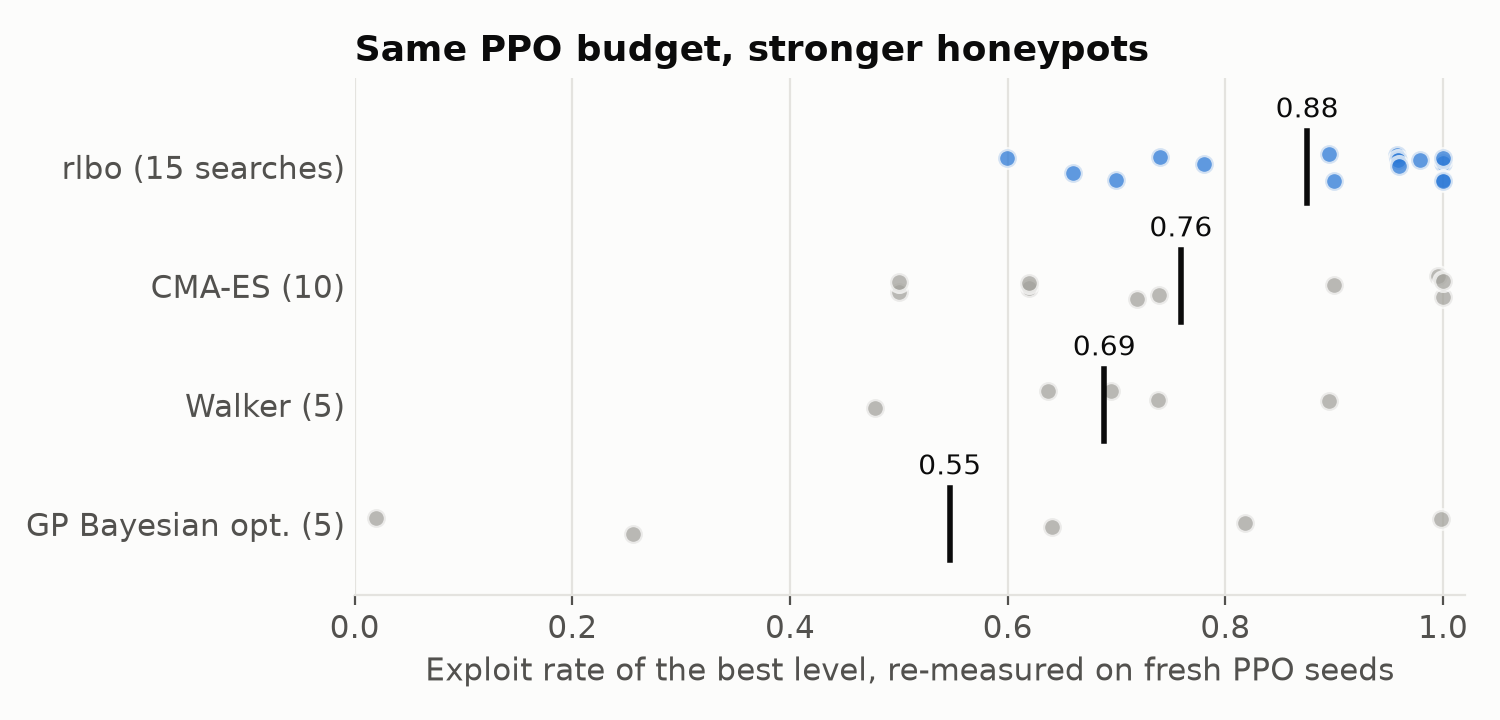
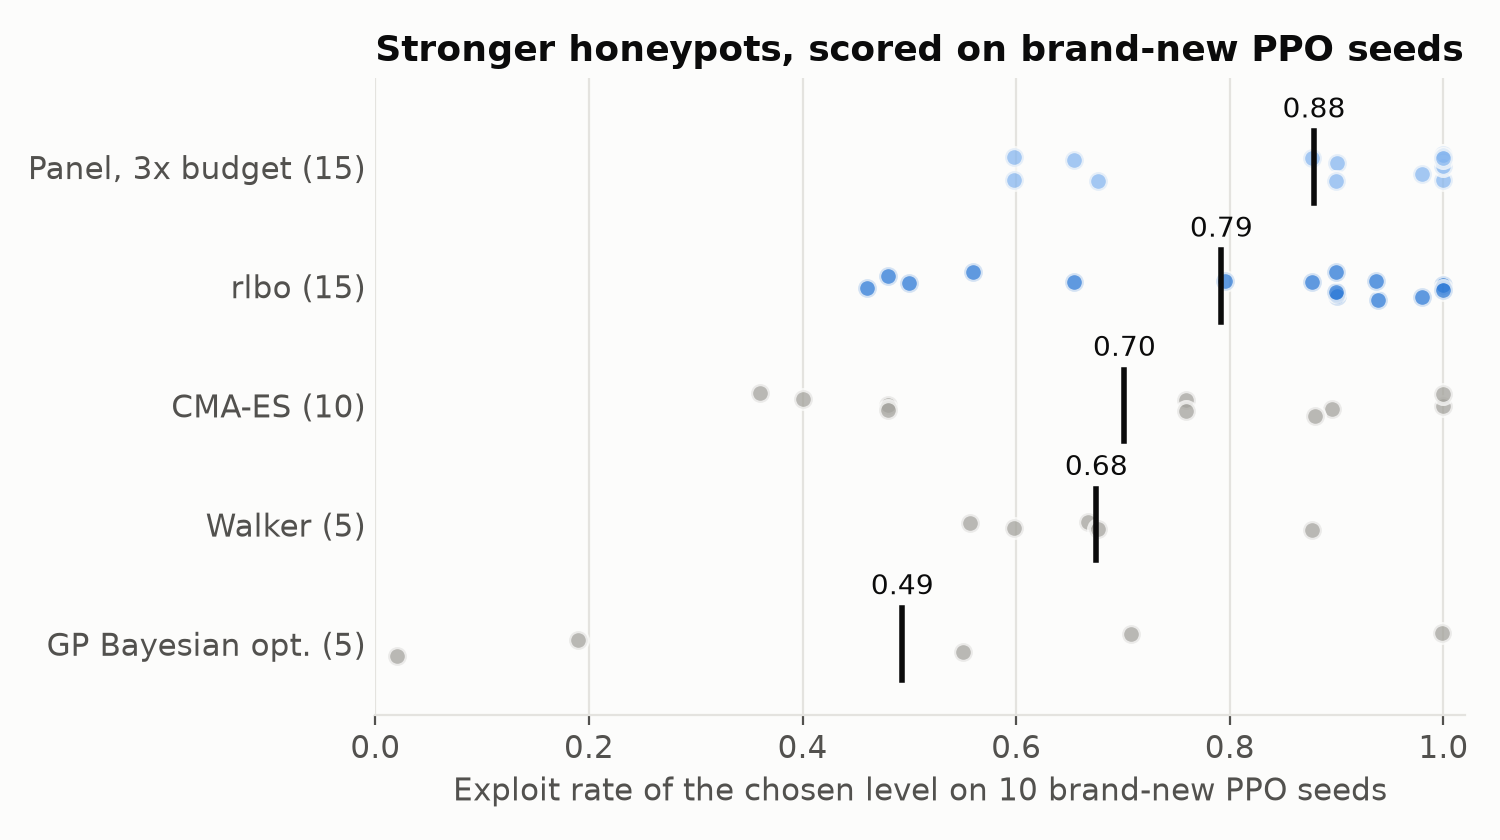
Blog, README, PyPI page: honeypot scores on brand-new PPO seeds; full-budget panel result; honest confidence

diff --git a/docs/figures/make_figures.py b/docs/figures/make_figures.py
@@ -52,14 +52,25 @@ def dot_rows(ax, rows, xlabel):
     ax.set_axisbelow(True)
 
 
+def fresh(prefix):
+    """Exploit rate of each search's chosen level on 10 brand-new PPO seeds (experiments/honeypot/recheck.py)."""
+    out = []
+    for f in sorted(HP.glob('recheck_*/recheck_*.json')):
+        d = json.load(open(f))
+        out += [d['exploit'] for k in d['key'] if k.replace(chr(92), '/').startswith(prefix)]  # keys from Windows paths
+    return out
+
+
 def fig_honeypot():
-    rows = [('rlbo (15 searches)', scores('round_J/*.json'), BLUE),
-            ('CMA-ES (10)', scores('round_F/manyh_cmaes_*.json') + scores('round_H/manyh_cmaes_*.json'), GRAY),
-            ('Walker (5)', scores('round_G/manyh_rl-hpx_walker-s0_*.json'), GRAY),
-            ('GP Bayesian opt. (5)', scores('round_F/manyh_optuna_gp_*.json'), GRAY)]
-    fig, ax = plt.subplots(figsize=(7.5, 3.6))
-    dot_rows(ax, rows, 'Exploit rate of the best level, re-measured on fresh PPO seeds')
-    ax.set_title('Same PPO budget, stronger honeypots')
+    rows = [('Panel, 3x budget (15)', fresh('panel:'), '#86b6ef'),  # rlbo + CMA-ES + walker, each the full budget
+            ('rlbo (15)', [v for p in ('s0', 's1', 's2') for v in fresh(f'rlbo:{p}|')], BLUE),
+            ('CMA-ES (10)', fresh('cmaes|'), GRAY),
+            ('Walker (5)', fresh('walker|'), GRAY),
+            ('GP Bayesian opt. (5)', fresh('gp|'), GRAY)]
+    assert [len(r[1]) for r in rows] == [15, 15, 10, 5, 5], [len(r[1]) for r in rows]
+    fig, ax = plt.subplots(figsize=(7.5, 4.2))
+    dot_rows(ax, rows, 'Exploit rate of the chosen level on 10 brand-new PPO seeds')
+    ax.set_title('Stronger honeypots, scored on brand-new PPO seeds')
     fig.tight_layout(); fig.savefig(OUT / 'honeypot_results.png', dpi=200); plt.close(fig)
 
 

diff --git a/docs/blog_post.md b/docs/blog_post.md
@@ -6,12 +6,13 @@
 
 - [Reward-hacking](https://lilianweng.github.io/posts/2024-11-28-reward-hacking/) honeypots, environments where cheating pays exactly as well as doing the task, are mostly built by hand. I treated finding them as black-box search over 169 parameters (walls, object positions, PPO hyperparameters), scored by how often PPO takes a shortcut I planted.
 - Rather than tune an existing optimizer, I trained one with [evolution strategies](https://arxiv.org/abs/1703.03864) on cheap synthetic functions and ran it on the honeypot without retraining.
-- At equal PPO budget, my best learned optimizer (rlbo) found levels where PPO cheats 88% of the time. [CMA-ES](https://arxiv.org/abs/1604.00772) got 76% and GP [Bayesian optimization](https://arxiv.org/abs/1807.02811) 55%.
+- At equal PPO budget, my best learned optimizer (rlbo) found levels where PPO cheats 79% of the time, scored on PPO seeds that played no part in picking them. [CMA-ES](https://arxiv.org/abs/1604.00772) got 70% and GP [Bayesian optimization](https://arxiv.org/abs/1807.02811) 49%. With 5 to 15 searches per method, the gap to CMA-ES could still be noise.
+- Running rlbo, CMA-ES and the walker side by side, each with the full budget, and keeping the best level did better still: 88%, at 3× the PPO compute.
 - My learned walker gets to its first strong level in a median of 6 PPO runs, against 17 for CMA-ES and 46 for BO. Its final levels are weaker than rlbo's, though.
-- Nothing I tried wins everywhere. The walker loses to CMA-ES on final quality at equal compute, and the learned edge shrinks as the landscape gets flatter.
+- Nothing I tried wins everywhere. The walker only ties CMA-ES on final quality, and the learned edge shrinks as the landscape gets flatter.
 - **Try it:** [Colab demo](https://colab.research.google.com/drive/1nKxKFCsVaD7sqL6rE6NkNPjR3K4qFE5y?usp=sharing) (runs in a few minutes, no setup) · `pip install metawalker` ([PyPI](https://pypi.org/project/metawalker/)).
 
-*Epistemic status: course project. One toy environment, 5 to 15 searches per method. I trust the big gaps (rlbo vs. CMA-ES and BO), not the small ones.*
+*Epistemic status: course project. One toy environment, 5 to 15 searches per method. The ranking holds on fresh PPO seeds, but most gaps are inside the noise. I'd bet on rlbo beating GP BO and on the full-budget panel beating CMA-ES; the rest is suggestive.*
 
 ## Honeypots are still built by hand, one at a time
 
@@ -51,15 +52,15 @@ I built three learned optimizers, all trained with ES:
 - **RL-CMA**: CMA-ES, with the step size and restart decisions handed to a learned policy.
 - **rlbo**: shaped like BO. Each step it fits cheap surrogates and proposes 48 candidates, and the policy picks one. It's similar in spirit to [MetaBO](https://arxiv.org/abs/1904.02642), but I trained it end to end with ES.
 
-## rlbo finds the strongest honeypots: 88%, vs. 76% for CMA-ES
+## rlbo finds the strongest honeypots of any single method: 79%, vs. 70% for CMA-ES
 
-I gave every method 200 evaluated levels per search and ran 5 searches each. There's a trap here. In a noisy search, the best score you *observed* is biased upward, because the winner is partly just the luckiest draw. So I retrained each search's best levels on fresh PPO seeds and scored those instead.
+I gave every method 200 evaluated levels per search and ran 5 searches each. There's a trap here, and I walked into it twice. In a noisy search, the best score you *observed* is biased upward, because the winner is partly just the luckiest draw. So I retrained each search's top 3 levels on 10 fresh PPO seeds and kept the best. But keeping the best of 3 is a small winner's curse of its own: those scores came out about 0.08 too high. The numbers below come from one more step: the chosen level, retrained on 10 brand-new seeds that played no part in choosing it.
 
-![Dot plot of the exploit rate each search achieved: rlbo averages 0.88, CMA-ES 0.76, the walker 0.69 and GP Bayesian optimization 0.55](figures/honeypot_results.png)
+![Dot plot of the exploit rate each search achieved on brand-new PPO seeds: a panel with 3x the budget averages 0.88, rlbo 0.79, CMA-ES 0.70, the walker 0.68 and GP Bayesian optimization 0.49](figures/honeypot_results.png)
 
-*Each dot is one search, scored on fresh PPO seeds. Black line is the mean.*
+*Each dot is one search, scored on 10 PPO seeds that played no part in choosing the level. Black line is the mean. The top row uses 3× the PPO budget; see the panel section below.*
 
-Could that be one lucky training run? I trained three rlbo policies independently, and all three beat CMA-ES on average. On the same search seed, rlbo won 10 of 15 head-to-heads.
+Could that be one lucky training run? I trained three rlbo policies independently, and all three beat CMA-ES on average (0.75, 0.80 and 0.83, against 0.70). Search by search it's closer than the averages suggest, though: on the same search seed, rlbo beat CMA-ES in 17 of 30 pairings. With this few searches, a gap of 0.09 could still be noise. The gap to GP BO, 0.30, is the one I'd bet on.
 
 This is the part I find most interesting. The policy had only ever seen synthetic math functions, and it went to gridworld walls and PPO hyperparameters with no retraining. That's the result I'd most like someone to replicate.
 
@@ -87,7 +88,7 @@ When I gave the other methods as much wall-clock time as BO used, even plain CMA
 
 ## The walker learned to explore first and re-check lucky results
 
-If the walker trails CMA-ES on the honeypot at equal compute, why spend a section on it? Because it's the easiest of the three to look inside, and what it learned makes sense.
+If the walker only ties CMA-ES on the honeypot (0.68 vs. 0.70), why spend a section on it? Because it's the easiest of the three to look inside, and what it learned makes sense.
 
 Before it sees any nonzero score, it jumps to a random point on about 70% of steps. That's the right call, since small steps are useless on a flat landscape. Once something scores above zero, it switches to local moves and keeps re-checking its best point, because in a noisy search a sudden new "best" is usually luck.
 
@@ -95,7 +96,7 @@ To check that these moves matter, I removed them one at a time and reran the hon
 
 ![Dot plot of the walker ablation: full walker 0.81, without jump 0.59, without re-check 0.48, without any of the new actions 0.53](figures/walker_ablation.png)
 
-*One action removed at a time, 5 searches each, 600-level budget.*
+*One action removed at a time, 5 searches each, 600-level budget. These are the best-of-3 scores, not re-checked on brand-new seeds.*
 
 ## Evolution strategies trained the optimizer better than PPO or DQN
 
@@ -123,13 +124,17 @@ The fix that helped most was also the least clever: spend the first 20% of the b
 
 ## No method wins everywhere, so the package runs a panel
 
-So which one should you use? It depends on what you care about. rlbo ends with the strongest honeypots, and the walker gets to a strong one fastest. CMA-ES pulls ahead once the budget is large. GP BO is hard to beat at 100 to 200 dimensions, if you can wait for it. If you don't know which of these your problem looks like, hedge: split the budget across several optimizers and keep the best result. That's the default in my package, `pip install metawalker` ([PyPI](https://pypi.org/project/metawalker/)), which also ships rlbo as `method="rlbo"`.
+So which one should you use? It depends on what you care about. rlbo ends with the strongest honeypots of any single method, and the walker gets to a strong one fastest. CMA-ES pulls ahead once the budget is large. GP BO is hard to beat at 100 to 200 dimensions, if you can wait for it. If you don't know which of these your problem looks like, hedge: run several optimizers and keep the best result.
 
-Isn't splitting the budget wasteful? It can be. Each method gets only part of the budget, and when the signal is rare that hurts. On a mix of flat and smooth test problems, the warmed-up walker alone reached the target on 11 of 15 runs, while a two-method panel with half the budget each reached it on 3. That's why I added `compare()`. It runs candidate methods on your own losses, reports how often and how fast each one gets there, and suggests a panel, which is sometimes a single method with the whole budget. You can also register your own optimizers alongside the built-in ones, or fine-tune the learned ones on cheap problems shaped like yours.
+Does that actually help? On the honeypot I tried two versions. Giving rlbo, CMA-ES and the walker the full 200 PPO runs each, and keeping the best level, was the strongest result in this post: 88% on brand-new seeds, against 79% for rlbo alone. It was at least as good as rlbo in 13 of 15 searches, and most of the gain came from searches where rlbo's pick was weak and CMA-ES had found something solid. The catch is 3× the PPO compute, though in parallel it takes the same wall-clock time as one search.
+
+[RESULT PENDING: equal-split panel, one 200-run budget shared three ways]
+
+Isn't splitting the budget wasteful? It can be. Each method gets only part of the budget, and when the signal is rare that hurts. On a mix of flat and smooth test problems, the warmed-up walker alone reached the target on 11 of 15 runs, while a two-method panel with half the budget each reached it on 3. That's why I added `compare()`. It runs candidate methods on your own losses, reports how often and how fast each one gets there, and suggests a panel, which is sometimes a single method with the whole budget.
+
+All of this is in my package, `pip install metawalker` ([PyPI](https://pypi.org/project/metawalker/)). `method="panel"` runs rlbo, RL-CMA and CMA-ES; after these runs I dropped the walker from the default, since without its warm-up it was the weakest member. By default the panel splits the budget. `allocate="each"` gives every method the full budget, and `allocate="race"` starts them all and moves the budget to whichever is doing best (successive halving), which I haven't tested on the honeypot. You can also register your own optimizers alongside the built-in ones, or fine-tune the learned ones on cheap problems shaped like yours.
 
 Does any of this help with ordinary hyperparameter tuning? Sometimes. The package has a drop-in replacement for scikit-learn's [`GridSearchCV`](https://scikit-learn.org/stable/modules/generated/sklearn.model_selection.GridSearchCV.html). On a 40-hyperparameter search in the demo, rlbo reached 0.93 test accuracy and the default method 0.91, against 0.88 for [`RandomizedSearchCV`](https://scikit-learn.org/stable/modules/generated/sklearn.model_selection.RandomizedSearchCV.html). On small searches (2 to 7 hyperparameters), everything ties random search. The [Colab demo](https://colab.research.google.com/drive/1nKxKFCsVaD7sqL6rE6NkNPjR3K4qFE5y?usp=sharing) runs both comparisons in a few minutes.
-
-One caveat: I never ran a panel on the honeypot itself, so the case for panels there rests on the individual results above.
 
 ## Skills learned on cheap problems transferred to an expensive one
 

diff --git a/docs/package.md b/docs/package.md
@@ -202,7 +202,7 @@ Notes:
 | `walker_rule` | hand-coded walker distilled from the learned one: move each coordinate with p = 0.6, pull 0.5 toward the best walker, step size `s *= exp(0.5 (success EMA - 0.35))` | as good as `walker`, with no network (mean rank 1.69 vs 1.83 over 12 problems) |
 | `cmaes` | CMA-ES with IPOP restarts (pycma) | small, noisy problems (under ~20 parameters) |
 | `cmaes_rule` | CMA-ES with the hand rule distilled from `rlcma`: sigma × 0.8 after a generation that did not improve, unless stalled 5+ generations or the population is flat | ties `rlcma` (wins 50%) and beats `cmaes` on 78% of runs; `rlcma` stays ahead on Levy/Rastrigin at 10 parameters |
-| `rlbo` | a learned acquisition policy over cheap surrogates: each step it fits local GPs and a global quadratic, proposes 48 candidates, and the policy picks one | the strongest honeypots in our 169-parameter search (PPO exploit rate 0.88 vs 0.76 for CMA-ES); beat CMA-ES on 91–100% of test problems from 20 parameters up and Optuna GP on 76–100%, in ~10–25 s of overhead per 1000-evaluation run |
+| `rlbo` | a learned acquisition policy over cheap surrogates: each step it fits local GPs and a global quadratic, proposes 48 candidates, and the policy picks one | the strongest honeypots of any single method in our 169-parameter search (PPO exploit rate 0.79 vs 0.70 for CMA-ES, on fresh PPO seeds); beat CMA-ES on 91–100% of test problems from 20 parameters up and Optuna GP on 76–100%, in ~10–25 s of overhead per 1000-evaluation run |
 | `gp` | Optuna Gaussian-process Bayesian optimization (needs `metawalker[optuna]`) | **expensive** objectives up to ~200 parameters: tied with `rlcma` overall and better at 100–200 parameters, but it costs ~1 hour of its own compute per 1000-evaluation run, and that cost grows fast with evaluations and dimensions |
 | `tpe` | Optuna TPE (needs `metawalker[optuna]`) | baseline; `rlcma` beat it on 70–100% of problems |
 | `random` | random search | baseline |

diff --git a/README.md b/README.md
@@ -147,15 +147,22 @@ family, at n = 5–500.
 
 ### Real honeypot, 169 parameters (`results/honeypot/`; `python results/honeypot/summarize.py`)
 
-Equal PPO compute: 200 PPO-costing evaluations per search, structurally invalid levels free. The score is the
-certified exploit rate: the best of the top candidates, re-measured on fresh PPO seeds. 5 search seeds per method.
+Equal PPO compute: 200 PPO-costing evaluations per search, structurally invalid levels free. "Certified" is the best
+of each search's top 3 levels, re-measured on 10 fresh PPO seeds. Keeping the best of 3 inflates it a little, so
+"fresh" retrains that chosen level once more on 10 brand-new seeds (`experiments/honeypot/recheck.py`,
+`results/honeypot/recheck_*`). 5 search seeds per method.
 
-| Method | Score |
-|---|---|
-| **rlbo** (3 policies, 15 searches) | **0.88** |
-| CMA-ES | 0.75–0.77 |
-| walker with jump / re-check + level cache | 0.69 |
-| Optuna GP | 0.55 |
+| Method | Certified | Fresh |
+|---|---|---|
+| panel: rlbo + CMA-ES + walker, each with the full budget (3x compute), best certified level kept | 0.96 | **0.88** |
+| **rlbo** (3 policies, 15 searches) | 0.88 | **0.79** |
+| CMA-ES (10 searches) | 0.76 | 0.70 |
+| walker with jump / re-check + level cache | 0.69 | 0.68 |
+| Optuna GP | 0.55 | 0.49 |
+
+With 5 to 15 searches per method, only rlbo vs GP and the panel vs CMA-ES are clear of the noise (95% bootstrap
+intervals of the fresh-seed gaps: rlbo − CMA-ES −0.08 to +0.27, rlbo − GP −0.02 to +0.61, panel − CMA-ES +0.01 to
++0.34).
 
 ### What the policies learned (`results/analysis/policy_report.md`)
 
